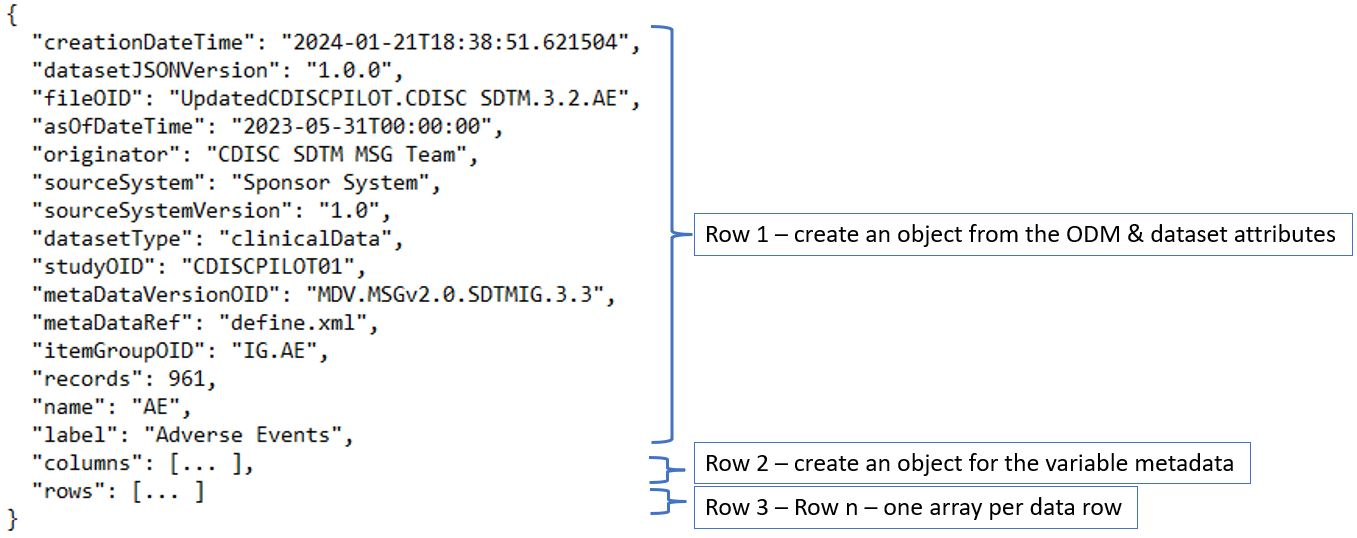
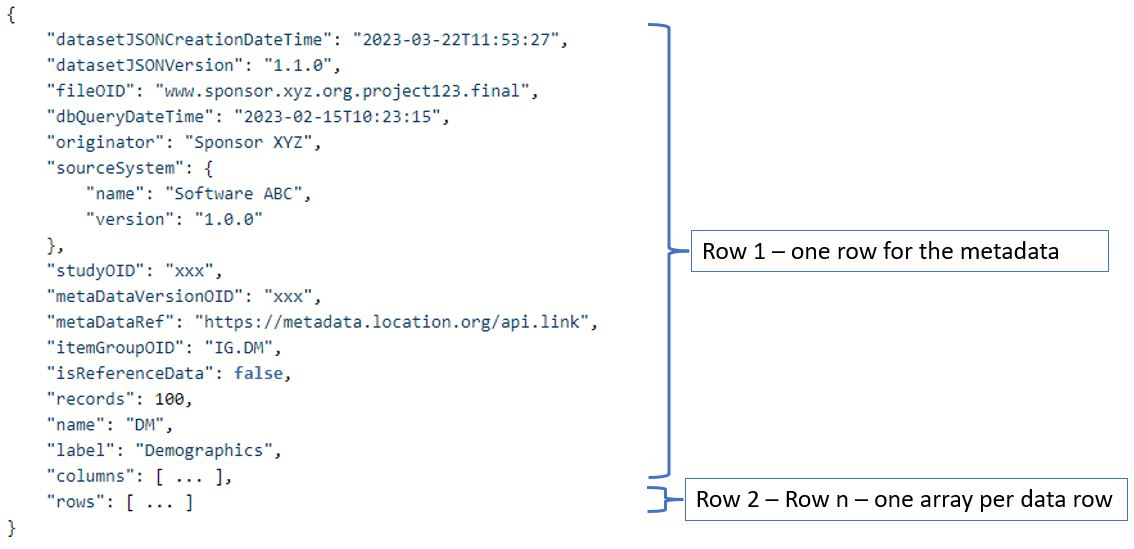
updates docs, model, schema - more coming

diff --git a/README.md b/README.md
@@ -1,5 +1,7 @@
 # NDJSON Representation of Dataset-JSON
 
+### In the middle of updating NDJSON
+
 ### Introduction
 
 The purpose of the NDJSON, or new-line delimited JSON, representation of Dataset-JSON is to simplify streaming 
@@ -24,18 +26,20 @@ line is valid JSON. The JSON is delimited by the newline character (\n or 0x0A) 
 return character (\r or 0x0D). UTF-8 encoding is expected.
 
 The Dataset-JSON NDJSON format is created from the Dataset-JSON standard by:
-* Row 1. Create 1 JSON object from the dataset attributes. Includes all by the columns and rows attributes.
-* Row 2. Create 1 JSON object that contains an array of variable metadata definitions taken from the columns attribute.
-* Row 3 - n. Create 1 array per data row
+* Row 1. Create 1 JSON object from the metadata, including the dataset attributes and column definitions.
+* Row 2 - n. Create 1 array per data row
 
-![NDJSON Proposed Changes](/docs/ndjson-json-structure.JPG?raw=true)
+All the metadata is in the first row of the dataset and everything else is a data row.
 
-Each row can be parsed and processed as standalone JSON text.
+![NDJSON Proposed Changes](/doc/img/ndjson-json-structure.JPG?raw=true)
+
+Each row can be parsed and processed as standalone JSON.
 
 ### Examples
 
 The NDJSON example datasets have been converted from the JSON versions, so they contain the same content. The examples 
 are available in the examples/NDJSON folder and use .NDJSON as the extension.
+
 
 ### Programs
 * JSON2NDJSON.py: Retrieves the example datasets from the CDISC DataExchange-DatasetJSON GitHub repo and converts them from JSON to NDJSON.
